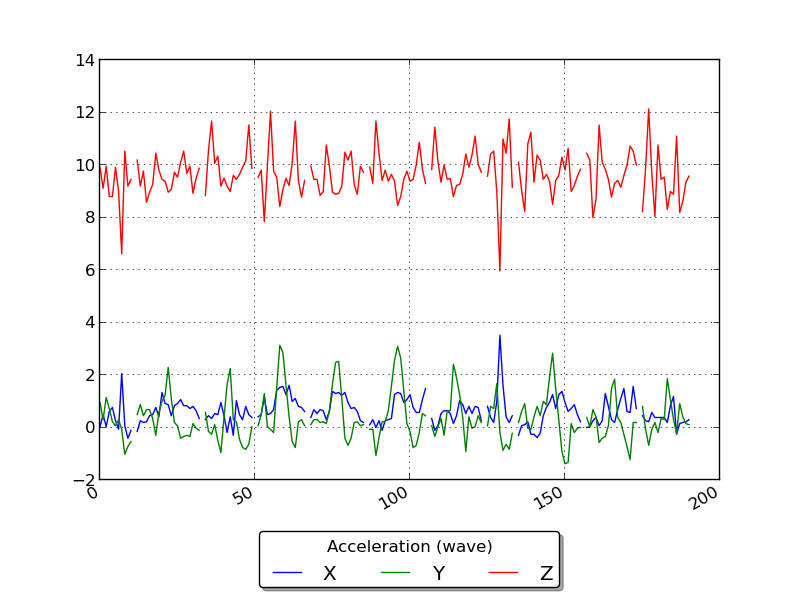
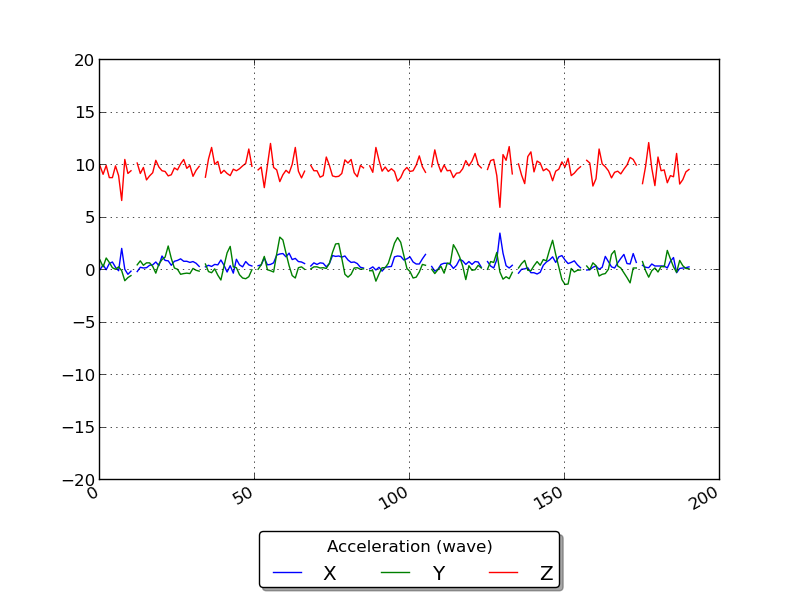
fixed axes on graph, few tweaks

diff --git a/analytics/data/grapher.py b/analytics/data/grapher.py
@@ -5,6 +5,7 @@ import pandas as pd
 from pandas import concat, DataFrame
 import matplotlib.pyplot as plt
 from pylab import savefig
+from pylab import ylim
 
 def graph_session(session):
 
@@ -17,7 +18,7 @@ def graph_session(session):
 			trial = pd.read_table(session+'/'+experiment_type+'/'+trial_num, sep='; ', names=cnames, skiprows=1)
 			trial_container.append(trial)
 
-		print 'trail container len'
+		print 'trial container len: '+experiment_type
 		print len(trial_container)
 		trials = concat(trial_container, ignore_index=True)
 		trials['accX'].plot()
@@ -25,11 +26,12 @@ def graph_session(session):
 		trials['accZ'].plot()
 		plt.legend(['X', 'Y', 'Z'], loc='upper center', bbox_to_anchor=(0.5, -0.10),
           fancybox=True, shadow=True, ncol=3, title='Acceleration ('+experiment_type+')')
+		ylim([-20,20])
 		savefig('graphs/'+session+'_'+experiment_type+'_accXYZ.png', bbox_inches=0)
 		plt.close()
 		
 		#todo save the concatenated experiments to disk - should actually be separate so you aren't saving every time you graph
-		#trials.drop(axis=1, labels=cnames) #should empty object
+		trials.drop(axis=1, labels=cnames) #should empty object
 		
 		
 
